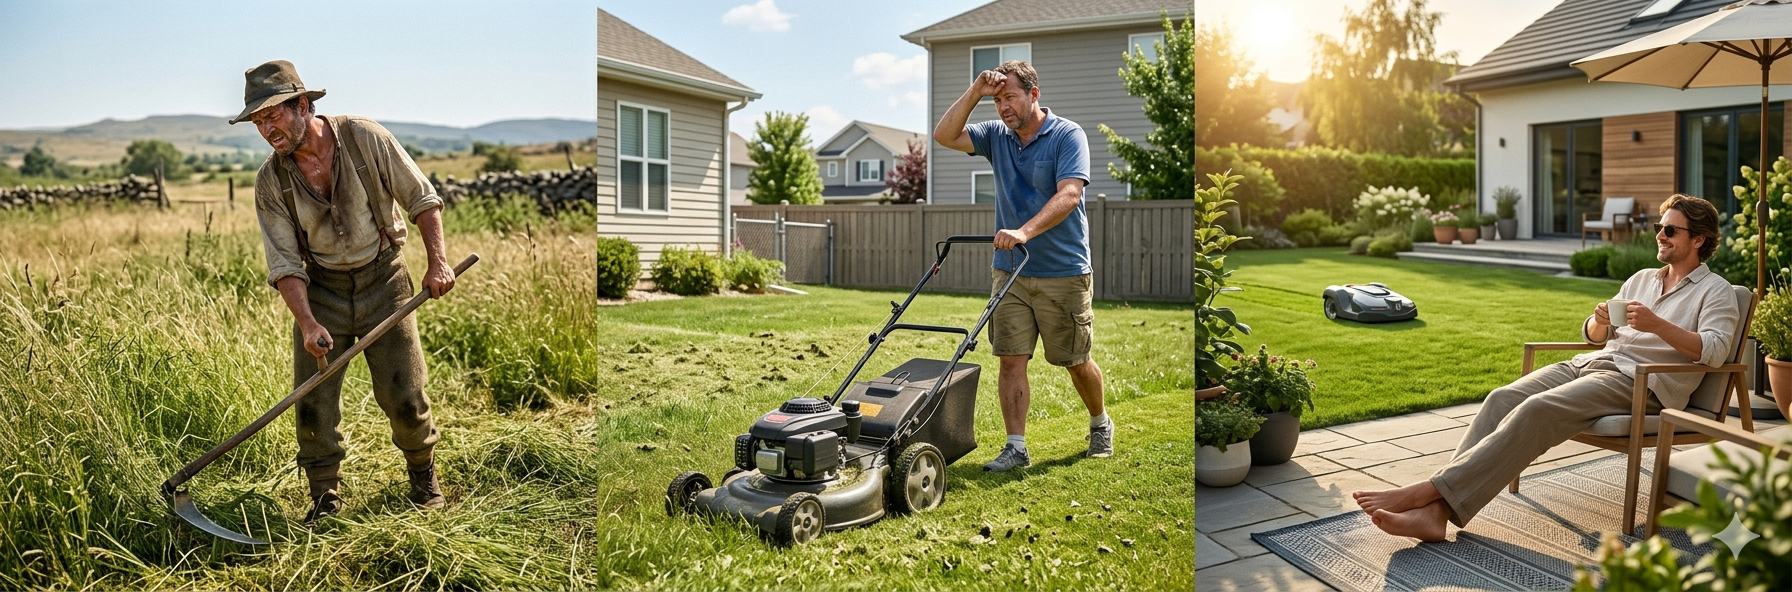
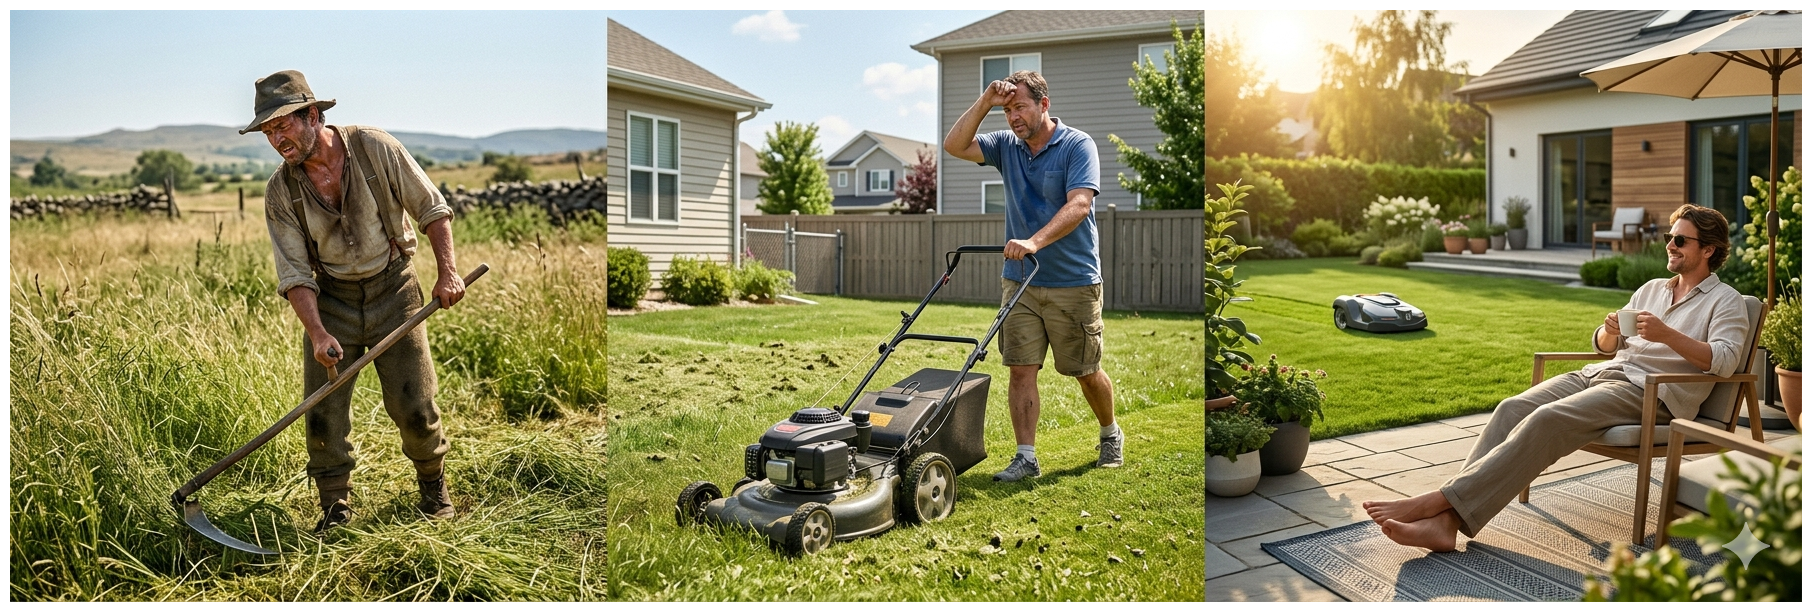
Make evolution divider skinnier (120px max height) and full width

diff --git a/index.html b/index.html
@@ -823,8 +823,8 @@
 </section>
 
 <!-- Evolution of lawn care divider -->
-<div style="text-align:center;padding:32px 24px;background:#f9fafb;">
-  <img src="images/lawn-evolution-hero.png" alt="The evolution of lawn care" style="width:100%;max-width:800px;opacity:.85;" loading="lazy">
+<div style="text-align:center;padding:12px 0;background:#f9fafb;overflow:hidden;">
+  <img src="images/lawn-evolution-hero.png" alt="The evolution of lawn care" style="width:100%;max-width:1200px;max-height:120px;object-fit:contain;opacity:.8;" loading="lazy">
 </div>
 
 <!-- Products -->
